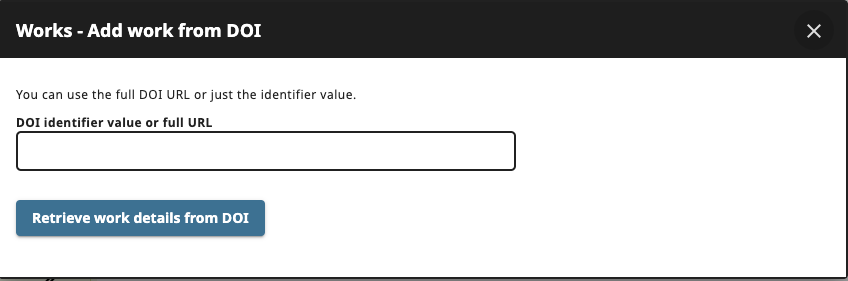
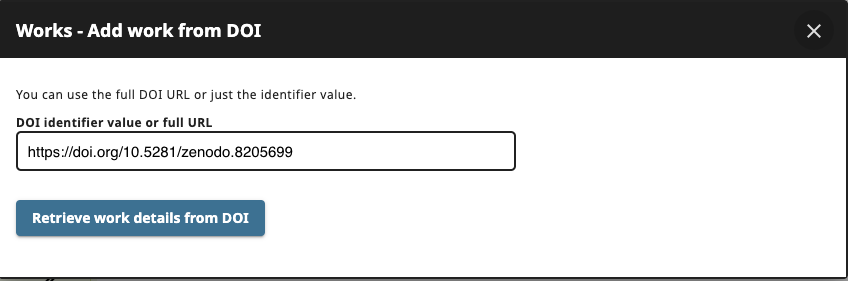
merged co2024 deliverables edit

Changed region(s): [[0.0307, 0.5125, 0.3679, 0.5694]]

diff --git a/doi.md b/doi.md
@@ -4,11 +4,11 @@ title: Digital Object Identifier
 nav_order: 3
 ---
 
-## Digital Object Identifier (DOI)
+# Digital Object Identifier (DOI)
 
-A Digital Object Identifier (DOI) is a persistent identifier and assigned to a digital resource, such as an article, dataset, software, or other scholarly work. The DOI provides a persistent link to the resource, making it easily identifiable and locatable on the internet. DOIs are commonly used in academic and scientific publishing to ensure the permanence and citability of research outputs. They serve as stable and permanent identifiers for digital content, enableing reliable linking, referencing and tracking of scholarly works.  
+A Digital Object Identifier (DOI) is a type of persistent identifier (PID) typically assigned to a digital resource, such as an article, dataset, software, or other scholarly work. The DOI provides a persistent and updatable link to the resource, making it easily identifiable and locatable on the internet through a persistent link. DOIs are commonly used in academic and scientific publishing to ensure the permanence and citability of research outputs. They serve as stable and permanent identifiers for digital content, enabling reliable linking, referencing and tracking of scholarly works.  
 
-When accessing a digital object through a DOI link, the [DOI resolve system](https://www.doi.org/) redirects the accessor to the resource's current location. This capability ensures that even if the original location becomes inaccessible or changes, the users can still access the content using the DOI link. Each DOI is associated with metadata that provides essential information about the digital object, such as the authors, title, publication date, and publisher. This metadata also facilitates accurate and comprehensive citation and discovery of the content.  
+When accessing a digital object through a DOI link, the [DOI resolve system](https://www.doi.org/) redirects the accessor to the resource's current location. This capability ensures that even if the original location changes (e.g. new host if the old location becomes inaccessabile or unavailabe), users can still access the content using the DOI, which will resolve to a link to the updated location. Each DOI is associated with metadata that provides essential information about the digital object, such as the authors, title, publication date, and publisher. This metadata is permanently stored with the DOI and facilitates accurate and comprehensive citation and discovery of the content.  
 
 The use of DOIs has become a standard practice in scholarly publishing and other digital content distribution platforms, promoting the permanence, reliability and accessibility of research outputs in publications and on the internet.  
 
@@ -16,16 +16,26 @@ The use of DOIs has become a standard practice in scholarly publishing and other
 
 _Modified image retrieved from [A Practical Guide for Immproving Transparency and Reproducibility in Neuroimaging Research](https://doi.org/10.1371/journal.pbio.1002506)_  
 
-Open Data, Open Source Software, and Open Publication Access form the foundational pillars of Open Science. DOIs play a crucial role in enabling seamless retrieval and utilization of openly available data by software, while research papers can effortlessly reference the software and data employed in the research process. This facilitates greater understanding, verification of results, and data reuse for novel analyses by other researchers.  
+Open Data, Open Source Software, and Open Publication Access form the foundational pillars of Open Science. DOIs play a crucial role in enabling seamless retrieval and utilization of openly available data by software, while research papers can reliably and accurately reference the software and data employed in the research process. This facilitates findability, promotion of research, verification of results, and data reuse for novel analyses by other researchers.  
 
-### DOI and Research Software
+## DOI and Research Software
 
-As discussed in the previous section, DOIs ensure the ciability of research outputs, which include research software. DOIs are crucial to the [three levels of reproducible research software](https://mcmasterrs.github.io/lm_reproducible-rs/smp/smp.html#reproducibility-goal), Research software for publication, Research software as a tool and Research software as infrastructure.  
+As discussed in the previous section, DOIs ensure the citability of research outputs, which include research software. DOIs are crucial to all [three levels of reproducible research software](https://mcmasterrs.github.io/lm_reproducible-rs/smp/smp.html#reproducibility-goal): research software for publication, research software as a tool and research software as infrastructure.  
 
-In the context of research software for publication and research software as a tool, DOIs allow for the tracking of citations and usage metrics of the software. This provides valuable data on how the software is being used in the research community as well as its impact and reach, which can inform future development and demonstrate its value to funders and stakeholders.  
+Software used for critical or novel elements of the research or its results should be cited in any publications. In this case, the specific version of the software used should be referenced. In this way DOIs provide an essential service for these specific citations with preserved meta-data about the software and version, and a location to find the specific software version relevant to the research.  
 
-While in the context of research software as infrastrcture, DOIs not only enables the tracking of how and where the software is cited and used across different research publications and projects, it also acts as standardization and compilance. Many funding agencies, journals and institutions are increasingly requiring that research outputs, including software, be assigned DOIs. This helps to ensure compliance with the funding requirements as well as to promote best practices in research assets management.  
+Even small, research project-specific analysis scripts that are important to your research, but often are not reusable in other contexts, are important to deposit and identify persistently. Other researchers may still build upon these scripts in ways you do not expect. But most importantly these software are essential to be FAIR findable and accessible in order to make your research FAIR reproducible and, as a result, are just as worthy of DOIs.  
 
-Moreover, a single research software often comes with multiple versions, each version may contain subtle change which may leads to drastically different outputs. DOIs provide another robust mechanism for indexing the different versions of software and facilitate proper citation of the research software in academic publication. Researchers can easily reference the specific version of the software they used and support their results by improving reproducibiltiy, as different versions of software might produce different results, while giving proper credit to the developers and maintaining the integrity.  
+When the research software is designed for broader use, using DOIs to cite this infrastracture research software facilitates standardization and consistency, so that results can be compared to like results.  
 
-Since DOIs are widely recognized and integrated into academic databases, libraries and indexing services. This integration helps ensure that research software can be easily found and accessed by researchers across different platforms and disciplines. Some notable examples are [Zenodo](https://zenodo.org/) by CERN (European Organization for Nuclear Research) and the [Research Software Directory](https://research-software-directory.org/) by the Netherlands eScience Center.  
+The use of DOIs provides the ability to measure citation counts and usage metrics of the software. These data provide valuable data on how the software is being used in the research community as well as its impact and reach. These data inform future support and development, and document its value to funders and stakeholders.  
+
+Many funding agencies, journals and institutions are increasingly requiring that research outputs, including software, be assigned DOIs. This requirement helps to ensure compliance with funding requirements as well as to promote best practices in research asset management.  
+
+Research software often have multiple released versions. Each version may contain subtle changes, which can result in different outputs so specific versions of software can be crucial for reproducibility and verification. A DOI can be created for a software project generally, which points to the collection of released and preserved versions of the project. A DOI can also be created for each specific version. DOI systems will link projects and versions bi-directionally making it easy for a link to one to find the other, and each to be presented in the context of the other. In this way DOIs provide a robust mechanism for research software projects and versions: research can reference the specific version of the software used to generate results, which is ideal for publications and citations, and users can easily find a research software project and its latest version for reuse.  
+
+DOIs are widely recognized and integrated into academic databases, libraries and indexing services. This integration helps ensure that research software can be found easily, and accessed by researchers across different platforms and disciplines. Some notable examples are [Zenodo](https://zenodo.org/) by CERN (European Organization for Nuclear Research) and the [Research Software Directory](https://research-software-directory.org/) by the Netherlands eScience Center.  
+
+## Benefits of Citable Research Software
+
+There are benefits to you and the whole community to make this work more visible and more citable. Part of the reason publications are valued as they are is because there exist systems in place to make it very easy to find, cite and use publications. Research outputs like software were once considered non-traditional options mainly because it was so difficult to track and manage. These tracking and management systems and tools now exist today. Your research software is valued and should be held at the same level as other research outputs, as demonstrated by publications. These benefits are achieved through using persistent identifiers (DOIs) for software and all of your research outputs so that they too are just as easy to find, cite and use, all key aspects of FAIR principles.  

diff --git a/portfolio.md b/portfolio.md
@@ -1,42 +1,54 @@
 ---
 layout: default
-title: Building Portfolio
+title: Building Your Research Portfolio
 nav_order: 5
 ---
 
-## Building Your Researcher Portfolio with ORCID ID
+# Building Your Researcher Portfolio with PIDs
 
-DOIs and ORCID IDs work together to enhance the credibility, visibility, and attribution of scholarly research. DOIs provide unique identifiers for individual research outputs, while ORCID IDs provide unique identifiers for researchers themselves. By linking the two, your scholarly works can be accurately attributed to you, facilitating better tracking of research impact and establishing reliable connections between researchers and their contributions. In the upcoming sections, we will explore the steps to connect your research software development with DOI and ORCID ID record.  
+DOIs and ORCIDs work together to enhance the credibility, visibility, and attribution of scholarly research. DOIs provide unique identifiers for individual research outputs, while ORCIDs provide unique identifiers for researchers themselves. By linking the two, your scholarly works can be accurately attributed to you, facilitating better tracking of research impact and establishing reliable connections between researchers and their contributions. In the upcoming section we will explore the steps to connect your research software development with DOI and ORCID persistent identifiers to create a research profile.  
 
-### Generate DOI for Your Research Software
+## Generate a DOI for Your Research Software
 
-Assuming you have deposited and publish your software source code on GitHub with a license. Now you can index your software source code with DOI using [Zenodo.org](https://zenodo.org/). Zenodo is a free and open-access research data repository and publishing platform that facilitates the sharing, archiving, and dissemination of research outputs. It is an initiative developed and operated by CERN (European Organization for Nuclear Research) and is part of the European OpenAIRE project.  
+To generate a DOI for software, we will use the public and popular [Zenodo](https://about.zenodo.org/) repository. Zenodo is a free, open-access research data repository and publishing platform that facilitates the sharing, archiving and dissemination of research outputs. It is an initiative developed and operated by CERN (European Organization for Nuclear Research) and is part of the European OpenAIRE project.  
 
-First, create a Zenodo account, you may use a email & password authentication method or Single-Sign On with GitHub or ORID ID.  
+In this example, we will demonstrate how to create a repository on Zenodo directly from your _public_ repository on GitHub. (You cannot create a DOI to a private repository.) Per your Software Management Plan, this repository should include your software license as well as licenses for any software libraries included.
+
+It is worth noting here, again, that cloud-based version control systems (e.g. GitHub, GitLab, BitBucket) are good for managing software versions and performing collaborative development, they are not considered persistent repositories for software. There are many reasons why a git repository might have its location or reference change. We use Zenodo in this example as such a persistent software repository, which is necessary for identifiers like DOIs to be persistent.
+
+Furthermore, Zenodo is not the only persistent software repository that provides DOIs and integrates with cloud-based version control systems. For example. [figshare.com](https://figshare.com/) also meets these criteria. However, rather than attempting to document all possible scenarios, instead we demonstrate how to follow a common path for depositing software and inter-connecting PIDs such as ORCIDs and DOIs to start building a researcher profile today.
+
+## Steps to Generate a DOI for Your Research Software
+
+First, create a Zenodo account. You may use an email + password authentication method or single sign-on with GitHub or ORCID accounts.  
 
 ![zenodo-sso](assets/img/zenodo-sso.png)  
 
-Once you have created a Zenodo account, click the dropdown menu which contains your Zenodo registration email and select GitHub.  
+Once you have created and logged into your Zenodo account, click the drop-down menu (in the banner, top-right), which contains your Zenodo registration email, and select GitHub.  
 
 ![zenodo-1](assets/img/zenodo-1.png)  
 
-Follow the instructions provided to link your GitHub account with Zenodo. And once you have linked your GitHub account with Zenodo. You will see all your public repositories from Zenodo side. Scroll to the repository you want to index and toggle the switch box next to it to turn on automatic preservation.  
+Follow the instructions provided to link your GitHub account with Zenodo. Once you have linked your GitHub account with Zenodo, you will see all your public repositories from the Zenodo side. In Zenodo, scroll to the repository you want to index and toggle the switch box next to it to turn on automatic preservation. In the screenshots below we demonstrate these actions on the software repository `quantum-stable-matching`.
 
 ![zenodo-2](assets/img/zenodo-2.png)  
 
-Then go to the GitHub repository and [create a release](https://docs.github.com/en/repositories/releasing-projects-on-github/managing-releases-in-a-repository). Zenodo will then automatically download the sources of the release and register a DOI. Once you have created a release, you will see the repository is marked as "Received" (in yellow) in Zenodo.  
+Then go to the GitHub repository and [create a release](https://docs.github.com/en/repositories/releasing-projects-on-github/managing-releases-in-a-repository). Zenodo will then automatically download the sources of the release and register a DOI. Everytime you create a release in GitHub, you will see the repository is marked as "Received" (in yellow) in Zenodo.  
+
+> Zenodo will create a project-specific DOI and a version-specific DOI when indexing the first release. For subsequent releases, only version-specific DOIs will be created. You are encourage to share the project-specific DOIs to promote your software, as the project-specific DOIs will direct the users to the latest version of your project, and uses the version-specific DOIs in scenarios where reproducibility is desired.  
 
 ![zenodo-3](assets/img/zenodo-3.png)  
 
-It will take approximately 1 hour for Zenodo to generate a DOI and about a day for the DOI to be effective on [doi.org](https://www.doi.org/).  
+It will take approximately 1 hour for Zenodo to generate a DOI and about a day for the DOI to be effective on [doi.org](https://www.doi.org/) through their respective background automation processes.
 
 ![zenodo-4](assets/img/zenodo-4.png)
 
-### Adding Your Research Software to Your ORCID ID Record
+## Adding Your Research Software to Your ORCID Record
 
-Now that you have a DOI for your research software project, it is time to add it to your ORCID ID record.  
+Now that you have a DOI for your research software project, it is time to add it to your ORCID profile.  
 
-Login your ORCID ID record. Go to "Works" and click the "Add" button. Select "Add DOI". Enter the DOI of your project and then click "Retrieve work details from DOI".  
+If you do not yet have an ORCID record, [Register on ORCID](https://orcid.org/register) to create one.
+
+Log in to your ORCID record. Go to "Works" and click the "Add" button. Select "Add DOI". Enter the DOI of your project and then click "Retrieve work details from DOI".  
 
 ![orcid-1](assets/img/orcid-1.png)  
 ![orcid-2](assets/img/orcid-2.png)  
@@ -45,6 +57,14 @@ Edit the work details and the click "Add this work to your ORCID record".
 
 ![orcid-3](assets/img/orcid-3.png)  
 
-You will see the new entry in the ORCID ID work record.  
+You will see the new entry in the ORCID work record.  
 
 ![orcid-4](assets/img/orcid-4.png)  
+
+At this point you have deposited a persistent copy of your software release on Zenodo, created a DOI for this software project and release, and linked this work with your personal persistent ORCID profile. You have started building your researcher portfolio. Future persistent identifiers that you create and associate with your ORCID will automaticaly be associated with your research profile going forward. 
+
+## Start Today
+
+There are is a low threshold, both in effort and qualifications, to create persistent identifiers for yourself and your software. Don't wait until the information or code is lost or at risk of being lost. It is much easier to persistently deposit and create reference identities (PIDs/DOIs) to software and other research objects at the time of creation and relevance, and out of habit, than after the fact and many at once. 
+
+Start today!

diff --git a/orcid.md b/orcid.md
@@ -1,13 +1,29 @@
 ---
 layout: default
-title: ORCID
+title: ORCID Identifier
 nav_order: 4
 ---
 
-## ORCID ID
+# ORCID Identifier
 
-ORCID stands for Open Research and Contributor ID. It is another type of persistent identifier, like DOI. However, unlike the DOI, an ORCID ID is assigned to individual researchers and contributors. It serves as a digital identifier that distinguishes one research from another, regardless of name variations or affiliations, and links them to their scholarly and research activities.  
+ORCID stands for Open Research and Contributor ID. It is another type of persistent identifier, like a DOI. An ORCID is assigned to an individual researcher or contributor. It serves as a reliable digital identifier that distinguishes one researcher from another, regardless of name variations or affiliations, and links them to their scholarly and research activities.  
 
-ORCID IDs play a crucial role in promoting transparency, recognition, and attribution in academic research. By using ORCID IDs, researchers can take ownership of their scholarly output, establish a clear identity in the academic community, and receive proper credit for their contributions.  
+ORCIDs play a crucial role in promoting transparency, recognition and attribution in academic research. By using ORCIDs, researchers can take ownership of their scholarly output, establish a clear identity in the academic community, and receive proper credit for their contributions.
 
-Furthermore, ORCID IDs enable automated and accurate author disambiguation, reducing the chances of misidentification and ensuring that researchers receive due recognition for their work. The adoption of ORCID IDs has become increasingly prevalent in the academic world, fostering collaboration, facilitating research assessment, and enhancing the reliability and integrity of scholarly communications.  
+ORCIDs provide author disambiguation, reducing the chances of misidentification and ensuring that researchers receive due recognition for their work. The adoption of ORCIDs has become increasingly prevalent in the academic world, fostering collaboration, facilitating research assessment, and enhancing the reliability and integrity of scholarly communications.  
+
+An ORCID profile of scholarly and research activities can be currated manually. However, software systems have been developed to automatically search, retrieve and collate scholarly and research activities tagged with personal ORCIDs. There are multiple publicly accessible software systems available that, together, provide an ecosystem of databases, access points and interfaces to discover and collate information tagged with PIDs. If a research has an ORCID, these systems can automatically populate and maintain a profile of works by the researcher. 
+
+[VIVO](https://vivo.lyrasis.org/) and [Symplectic Elements](https://www.symplectic.co.uk/theelementsplatform/) are two open source software systems that can be integrated together and customised to provide an institution-specific researcher networking and discovery service. It integrates data from multiple bibliographical sources, such as free sources like ORCID and PubMed, and proprietary sources like Dimensions, Scopus, Web of Science through paid institution licences. These customised systems can provide an expertise discovery gateway to facilitate collaboration among academic researchers and spark increased engagement with other communities in academia, industry and the media, locally, nationally and internationally. (e.g. [McMaster University Experts](https://experts.mcmaster.ca)) 
+
+Creating an ORCID, and connecting your research activities with this ORCID allows these public and institution-specific systems to automatically populate and maintain your research profile. The PIDs of your research outputs, such as software DOIs, can then be found on your research profile and reliably used to retrieve these works. 
+
+## Who can get an ORCID?
+
+From [ORCID.org](https://support.orcid.org/hc/en-us/articles/360006897334-What-is-an-ORCID-iD-and-how-do-I-use-it):
+
+> ORCID is open to everyone who may find ORCID useful. For simplicity, we often use the word “researcher” when referring to an ORCID record holder, but the “C” in ORCID stands for “contributor.” Our users hail from a far broader context than just one word can encompass. In fact, ORCID enables everyone who might find benefit from using the ORCID Registry to be able to obtain and use an ORCID iD.
+
+> Any rigid definition of who would “qualify” for an iD would likely unintentionally exclude people for whom an ORCID iD would be useful due to the wide diversity of circumstances researchers find themselves in around the world. Read more about who else might use an ORCID record, and how ORCID balances researcher control and data quality here.
+
+The threshold is very low for obtaining an ORCID, deliberately so to be inclusive of the research community. If an ORCID is useful for your research, get an ORCID today!

diff --git a/index.md b/index.md
@@ -1,13 +1,11 @@
 ---
 layout: home
-title: Introduction
+title: Research Software and Research Impact
 nav_order: 1
 ---
 
-## Research Software and Research Impact
+# Research Software and Research Impact
 
-Open Scholarship, also known as open science, refers to the movement towards making research and scholarly work openly accessible, transparent and reusable. Open Scholarship encompasses different principles and practices aimed at promoting collaboration, transparency and the sharing of knowledge in the academic community. While research impact refers to the influence and effects that research activities have on various stakeholders, including academia, industry, policy-makers, society, and the broader public. Open scholarship expands the influence of research on the advancement of knowledge within academic disciplines. It is often measured through citations in peer-reviewed journels and the recognition of research within the scholarly community.  
+Open scholarship, also known as open science, refers to the movement towards making research and scholarly work openly accessible, transparent and reusable. Open scholarship encompasses principles and practices aimed at promoting collaboration, transparency and the sharing of knowledge in the academic community. While research impact refers to the influence and effects that research activities have on various stakeholders, including academia, industry, policy-makers, society, and the broader public. Open scholarship expands the influence of research on the advancement of knowledge within academic disciplines. It is often measured through citations in peer-reviewed journals and the recognition of research within the scholarly community.  
 
-One of the key components of open scholarship is open source software. Open-source software is software that the source code is freely available, allowing others to view, modify, and distribute the code. Open-source software often play a significant role in research software development.  
-
-The learning module aims to demonstrate the interconnection between open-source research software and research impact while offering practical guidance on enhancing accessibility and maximizing academic impact.  
+One of the key components of open scholarship is open source software. Open source software is software where the source code is freely available, allowing others to view, modify and distribute the code. As a result of these aspects, open source software often play a significant role in research software development.  
